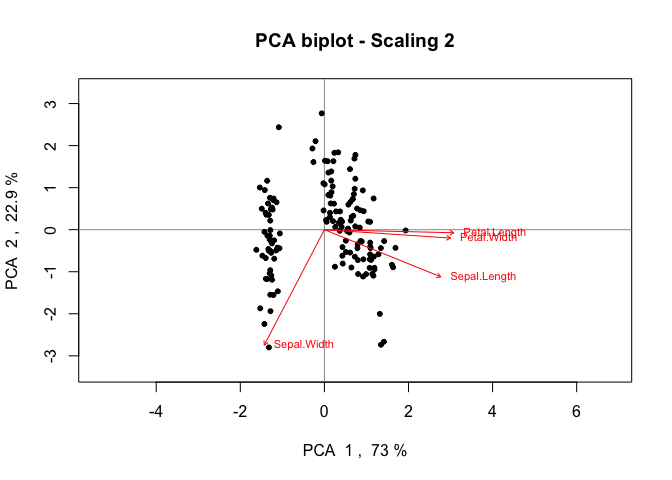
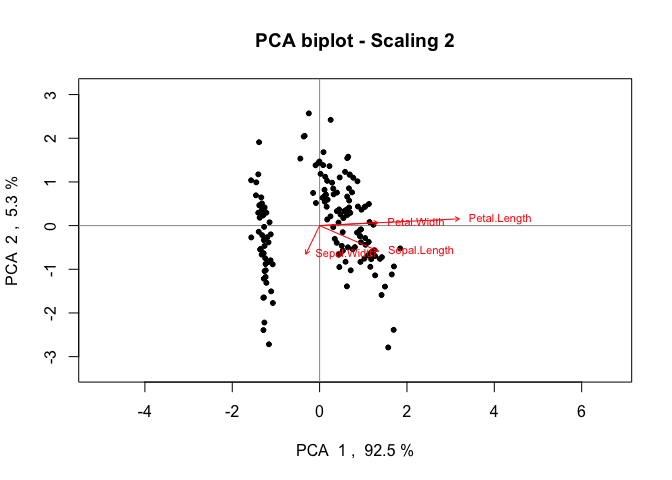
Fix typo

diff --git a/README.md b/README.md
@@ -6,9 +6,12 @@ nouvelle version, nommée `cleanpot.pca.color()` permet de différencier
 les points par couleurs en fonction d’une variable catégorielle (i.e :
 un `factor`).
 
-Pour l’utiliser, il suffit d’enregistrer le script
-`cleanplot.pca.color.R` dans le répertoire courant dans lequel travaille
-`R` (utilisez la fonction `getwd()` pour le trouver).
+Pour l’utiliser, il suffit de copier le texte en cliquant sur le lien
+[`cleanplot.pca.color.R`](cleanplot.pca.color.R) et dans l’enregistrer
+dans un fichier dans le répertoire courant dans lequel travaille `R`
+(utilisez la fonction `getwd()` pour le trouver). Puis vous charger la
+fonction en utilisant `source("nom_du_fichier_contenant_la_fonction.R")`
+et vous n’avez plus qu’à appeler `cleanplot.pca.color()`.
 
 # Exemple
 
@@ -29,12 +32,12 @@ source("cleanplot.pca.color.R")
 
 data <- iris
 
-species <- iris$Species
-species <- as.factor(species) # Je transforme mes données d
+species <- iris$Species # Je récupère les espèces dans un vecteurs.
+species <- as.factor(species) # Je transforme mes données en facteur.
 
-data <- data[, -5]
+data <- data[, -5] # Je retire la colonne espèce pour pouvoir faire mon ACP.
 
-data_pca <- rda(scale(data))
+data_pca <- rda(data)
 ```
 
 `cleanplot.pca.color()` a de nouveaux arguements qui sont tous
@@ -53,7 +56,10 @@ facultatifs :
 Par exemple, cela donne quelque chose comme cela :
 
 ``` r
-cleanplot.pca.color(data_pca, grouping.factor = species, grouping.title = "Espèce", pos.legend = "topleft")
+cleanplot.pca.color(data_pca, 
+                    grouping.factor = species,
+                    grouping.title = "Espèce",
+                    pos.legend = "topleft")
 ```
 
 ![](README_files/figure-gfm/acp-plot-color-1.png)<!-- -->
